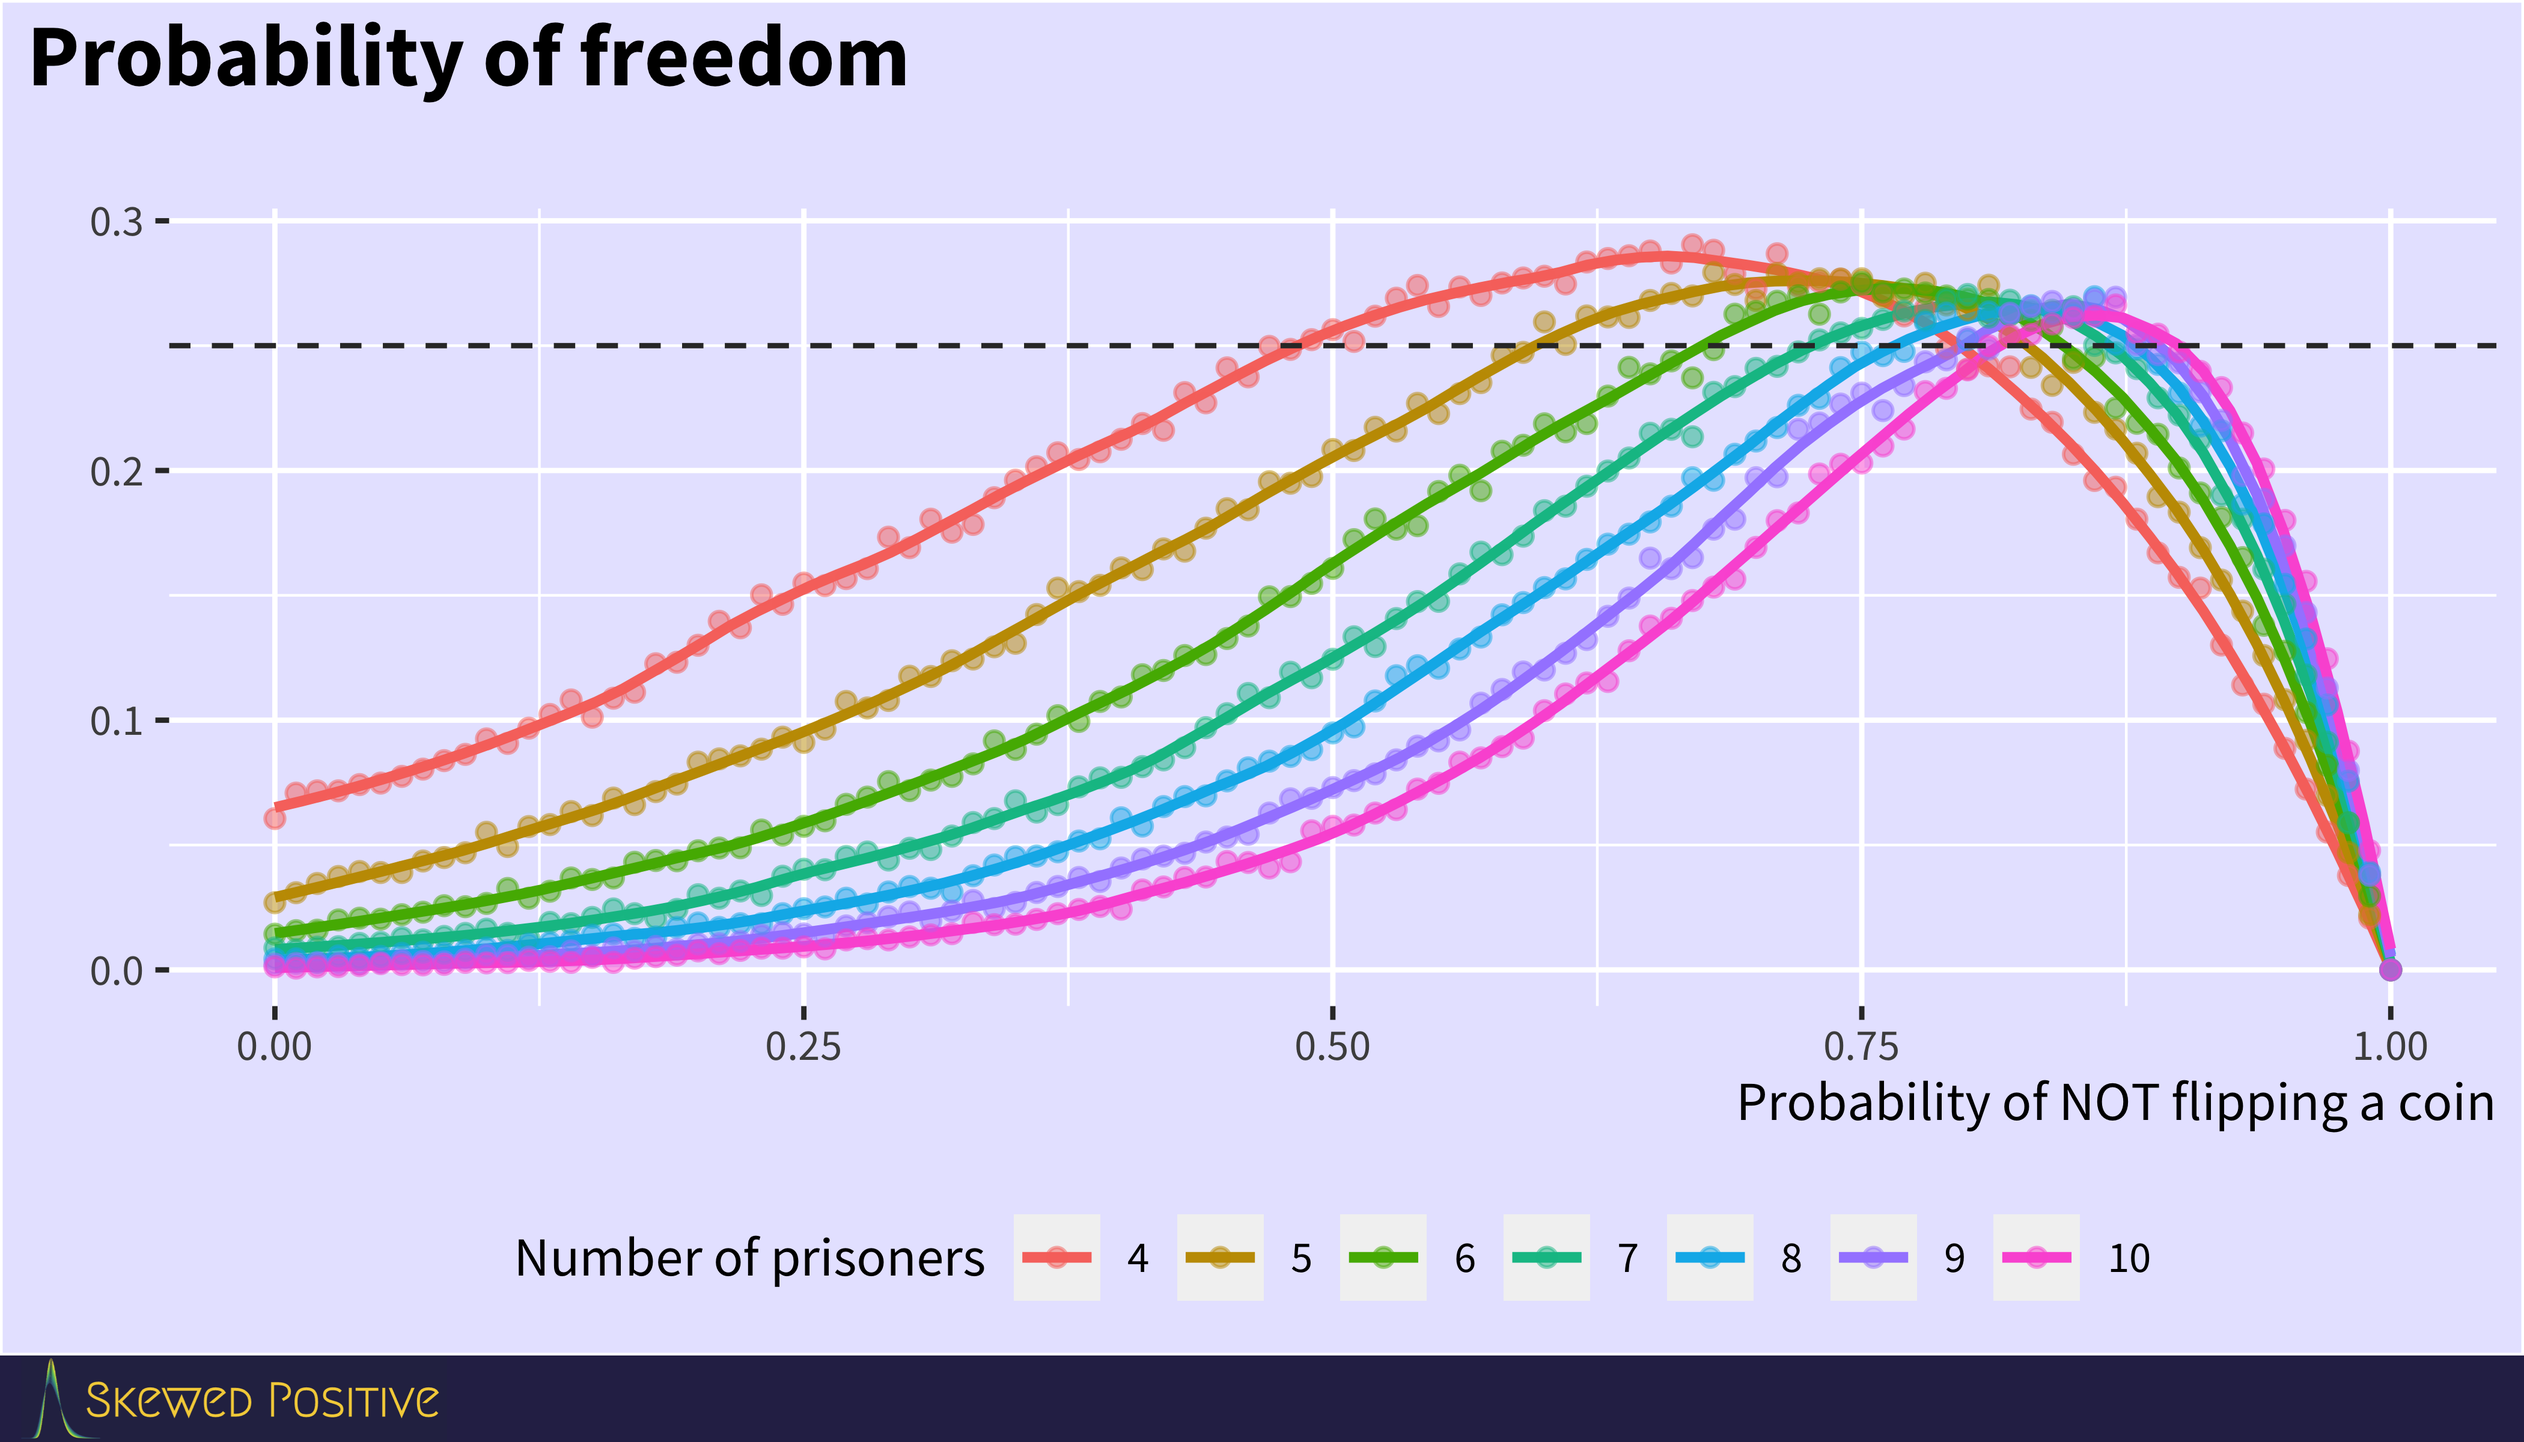
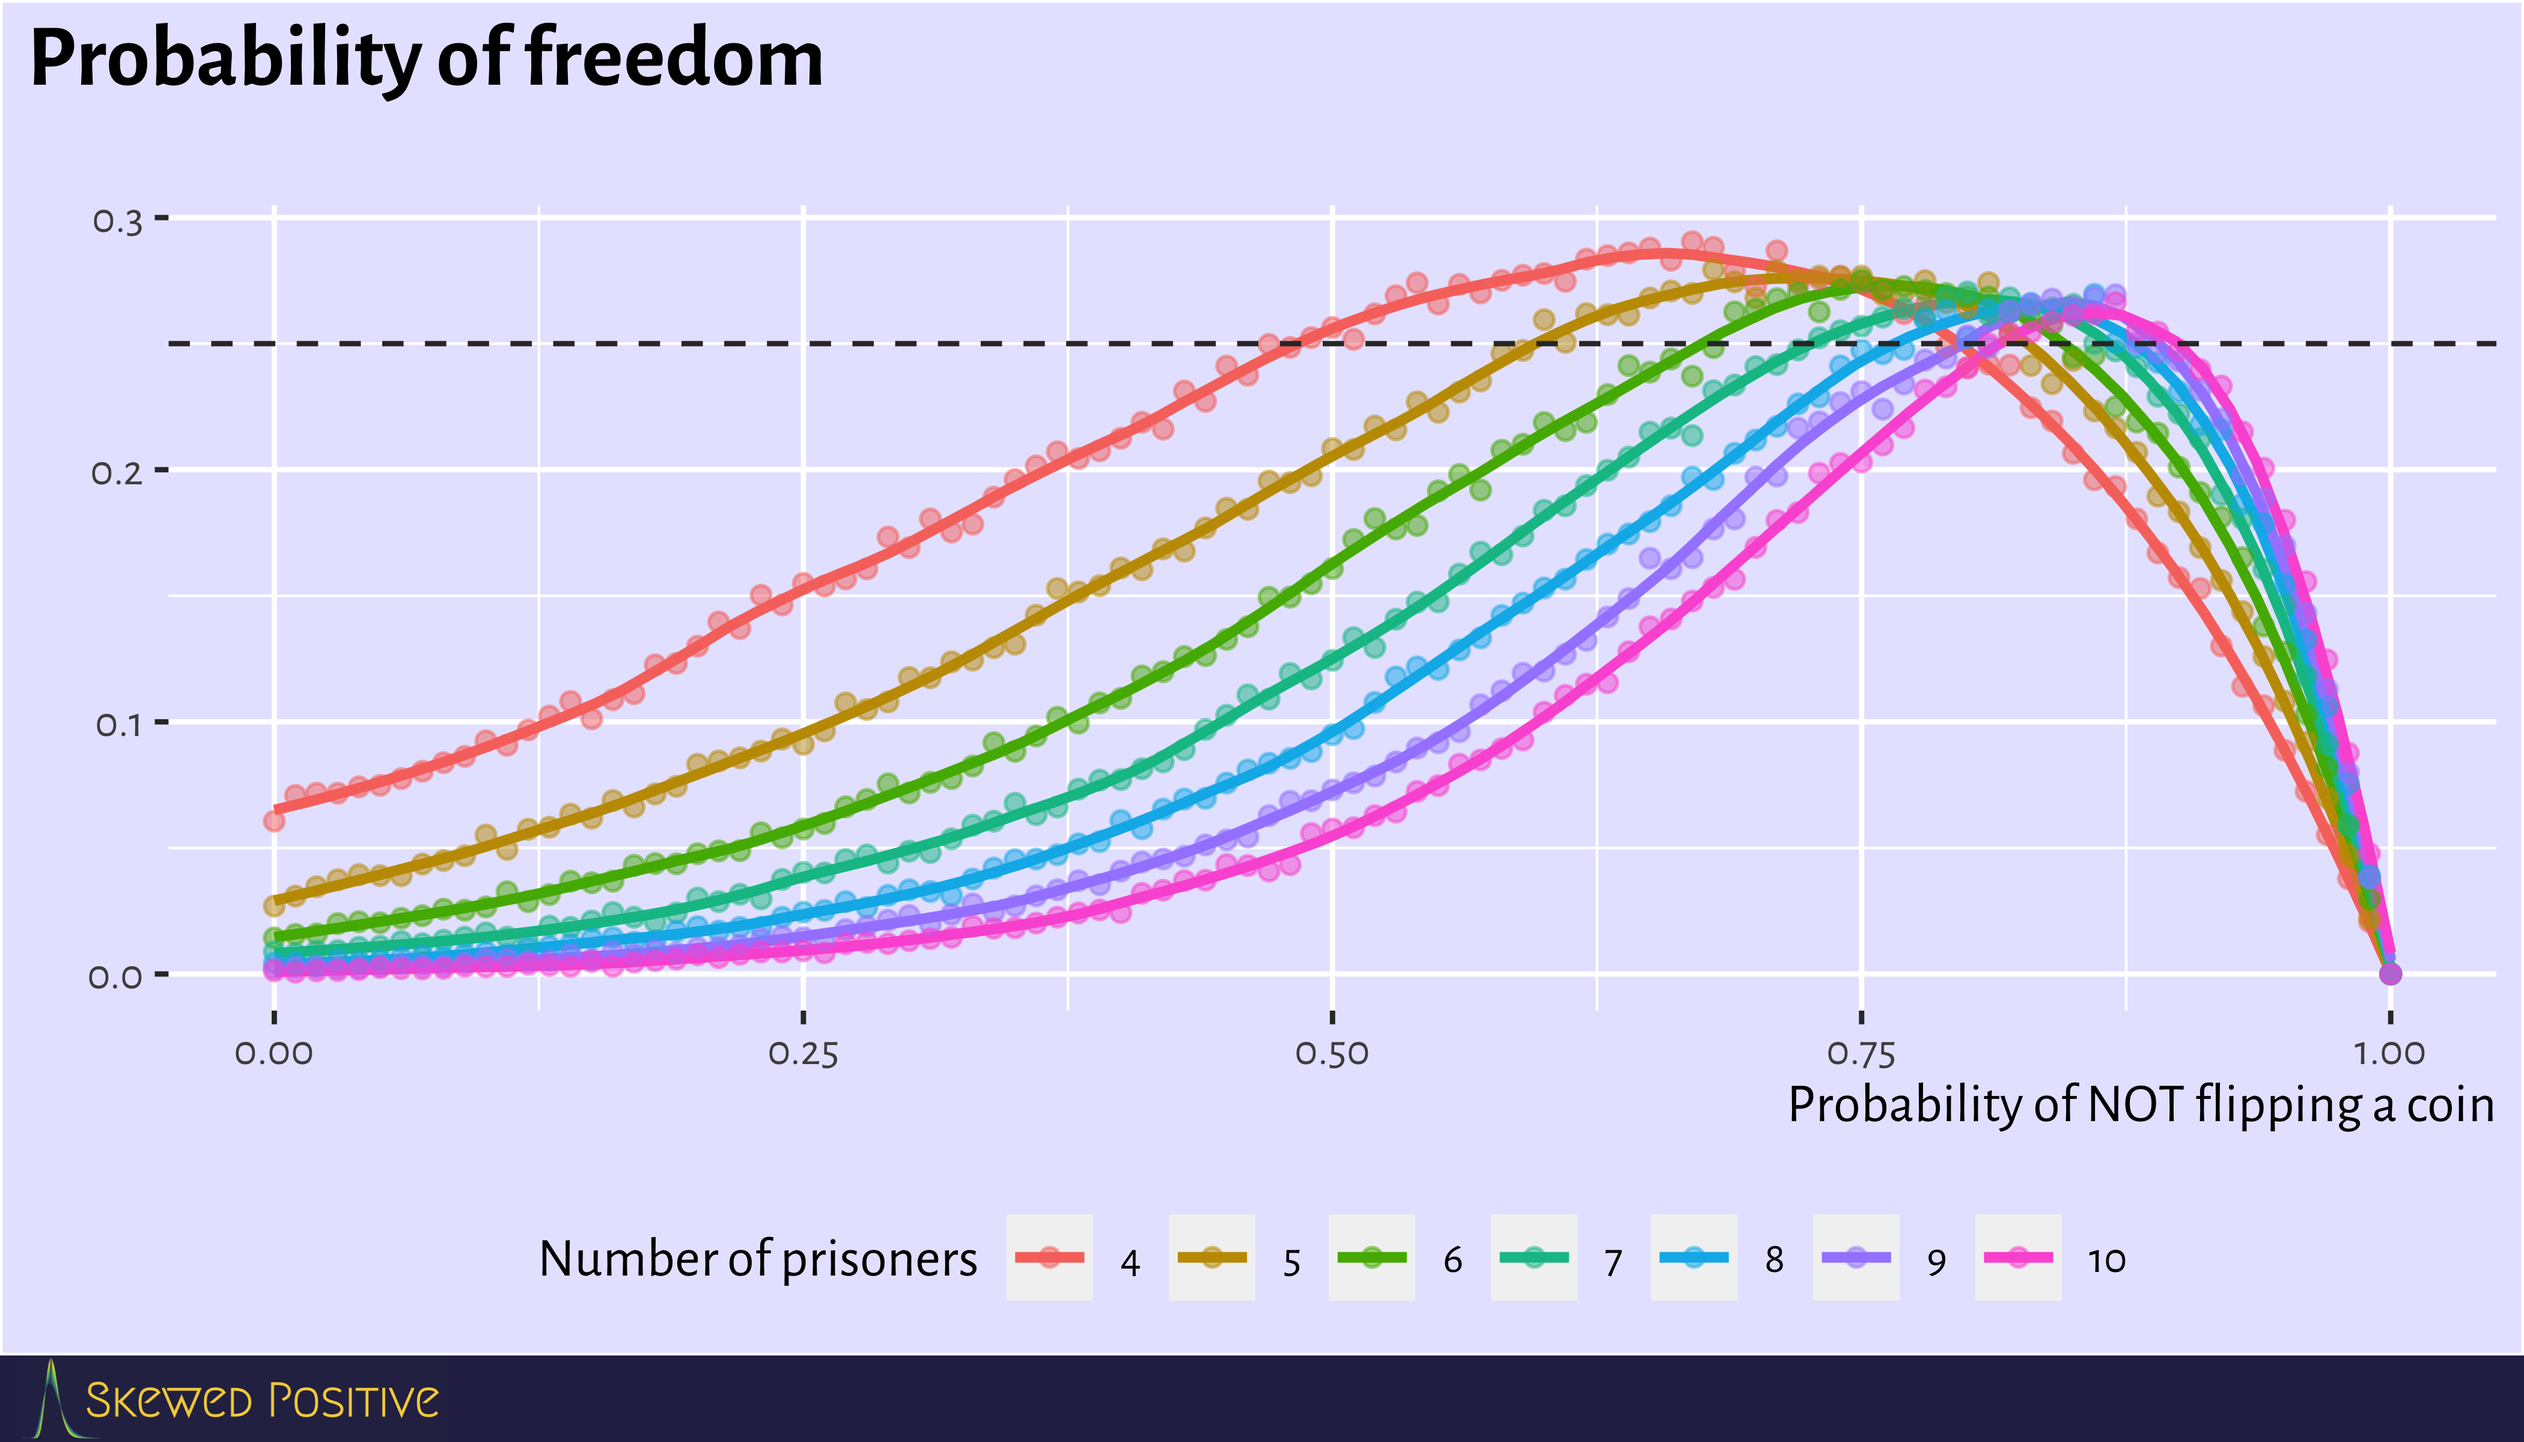
clean up and regenerate site.

diff --git a/content/post/flipping-your-way-to-freedom/index.html b/content/post/flipping-your-way-to-freedom/index.html
@@ -72,7 +72,7 @@ function of the number of prisoners, and the threshold <span class="math inline"
   sum(tosses == &quot;H&quot;) &gt; 0 &amp;&amp; sum(tosses == &quot;T&quot;) == 0
 }
 mean(replicate(1000, simulate_policy()))</code></pre>
-<pre class="knitr-output"><code>#&gt; [1] 0.244</code></pre>
+<pre class="knitr-output"><code>#&gt; [1] 0.246</code></pre>
 <p>Now that we have a function to simulate the policy, we can use it to compute the
 outcome for a number of trials across different values of <code>theta</code> and
 <code>nb_prisoners</code>. The easiest way to do this is to create a grid of values using
@@ -226,8 +226,8 @@ converge asymptotically to the values 0.25 and 0.96 respectively. It would
 be interesting if we can prove this result mathematically!
 </span></p>
 <figure>
-<a href="/post/flipping-your-way-to-freedom/index_files/figure-html/unnamed-chunk-1-1.png" data-fancybox="">
-<img src="/post/flipping-your-way-to-freedom/index_files/figure-html/unnamed-chunk-1-1.png"/>
+<a href="/post/flipping-your-way-to-freedom/index_files/figure-html/optimized-plot-show-1.png" data-fancybox="">
+<img src="/post/flipping-your-way-to-freedom/index_files/figure-html/optimized-plot-show-1.png"/>
 </a>
 <figcaption>
 </figcaption>
